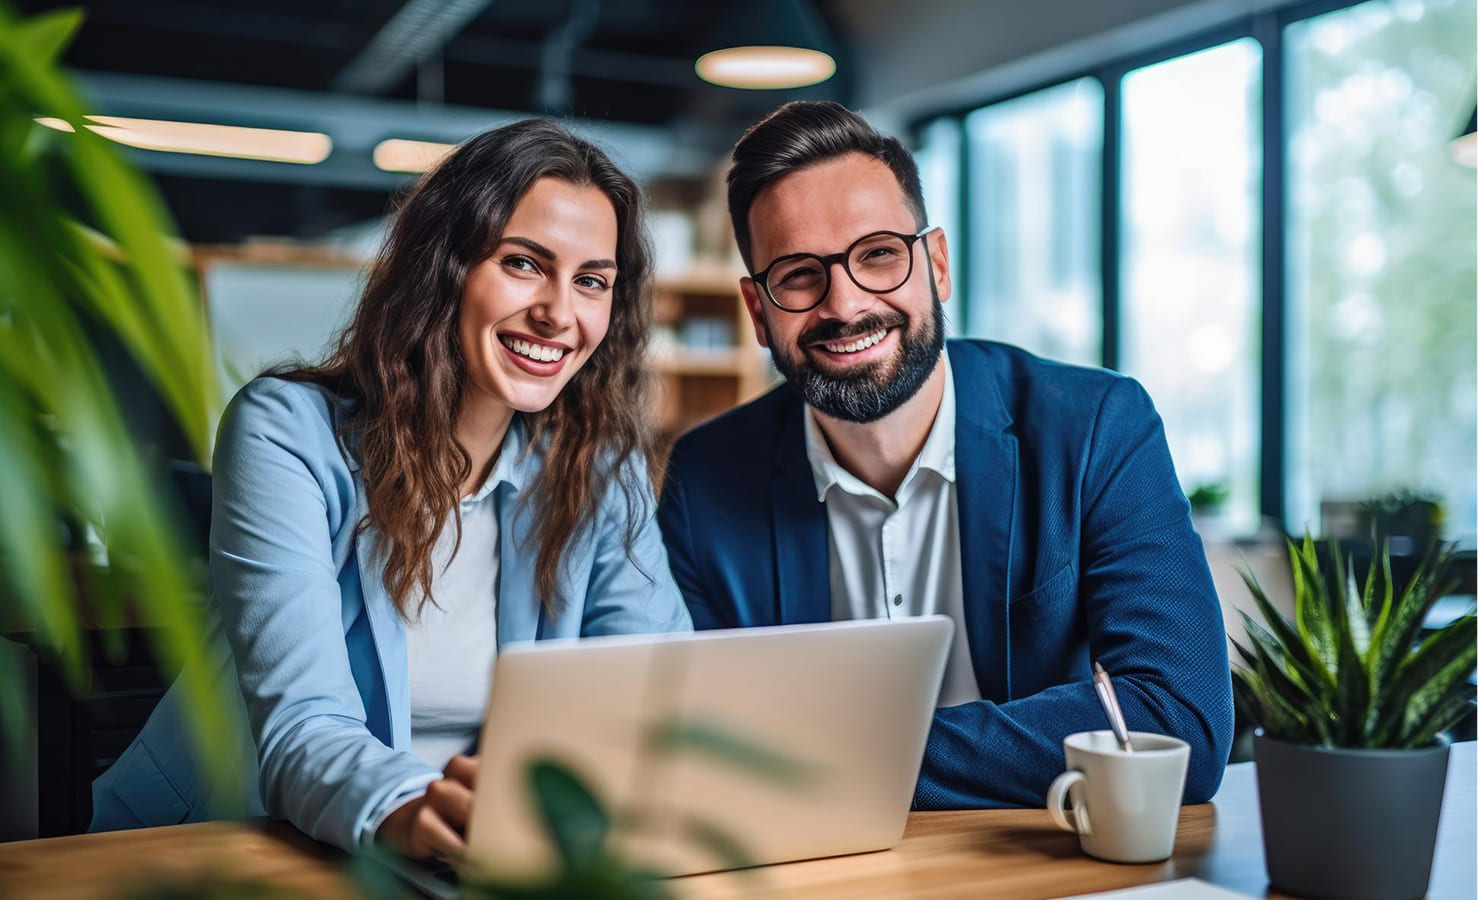
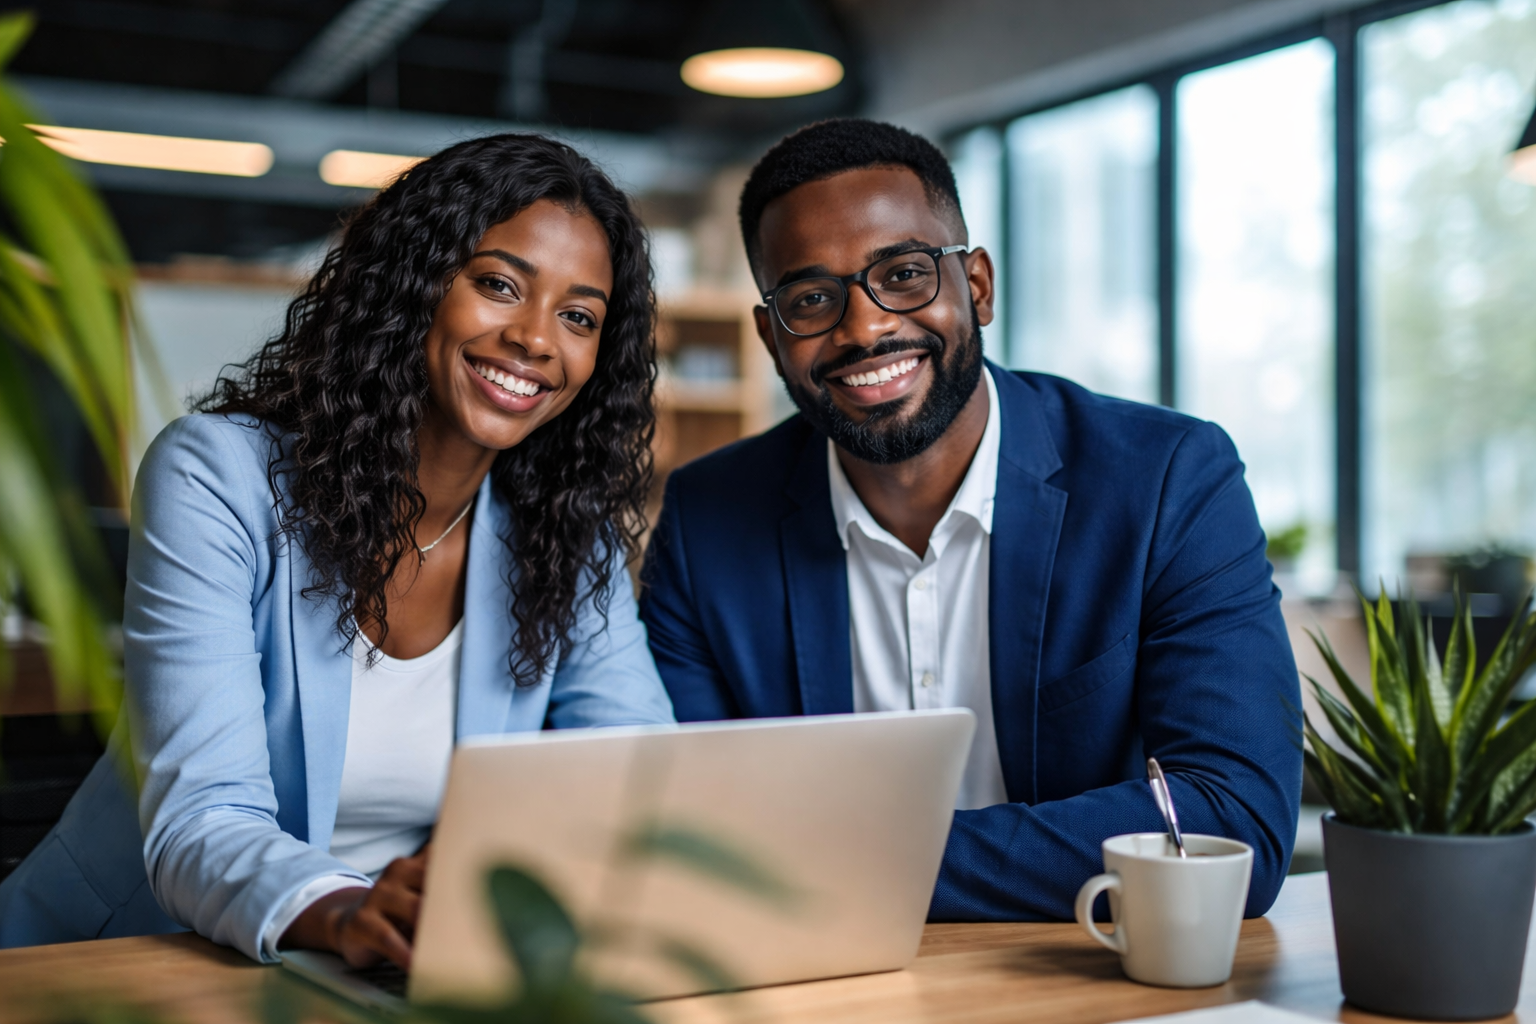
minor check

diff --git a/app/Http/Controllers/Auth/RegisteredUserController.php b/app/Http/Controllers/Auth/RegisteredUserController.php
@@ -76,8 +76,8 @@ class RegisteredUserController extends Controller
 
             DB::commit();
 
-            $email_subject = 'Welcome to BigHit - Verify Your Email';
-            $email_content = 'Use the OTP provided to confirm your email and join the BigHit community!';
+            $email_subject = 'Welcome to Lonstack Community - Verify Your Email';
+            $email_content = 'Use the OTP provided to confirm your email and join the Lonstack community!';
 
             // Send verification email
             Mail::to($user->email)->send(new VerificationMail($user, $email_subject, $email_content, $otp));
@@ -200,7 +200,7 @@ class RegisteredUserController extends Controller
         } catch (\Exception $e) {
             DB::rollBack();
             Log::error('OTP verification failed: ' . $e->getMessage());
-            return redirect()->route('email.verify', ['token' => $token])
+            return redirect()->route('email.verify.otp', ['token' => $token])
                 ->with('error', 'Verification failed. Please try again.');
         }
     }
@@ -231,13 +231,13 @@ class RegisteredUserController extends Controller
 
             DB::beginTransaction();
 
-            $otp = sprintf('%04d', random_int(0, 9999));
+            $otp = sprintf('%06d', random_int(0, 999999));
 
             $user->email_verification_otp = $otp;
             $user->email_verification_token_expires_at     = Carbon::now()->addMinutes(2);
             $user->save();
 
-            $email_subject = 'Welcome to BigHit - Verify Your Email';
+            $email_subject = 'Welcome to Lonstack - Verify Your Email';
             $email_content = 'Use the OTP provided to confirm your email and join the BigHit community!';
 
             // Mail inside transaction — if it throws, we rollback

diff --git a/app/Http/Middleware/RedirectIfAuthenticated.php b/app/Http/Middleware/RedirectIfAuthenticated.php
@@ -19,7 +19,7 @@ class RedirectIfAuthenticated
         if (Auth::check()) {
             $user = Auth::user();
 
-            if ($user->role === 'user') {
+             if ($user->role === 'user') {
                 return redirect()->route('user.dashboard');
             }
 